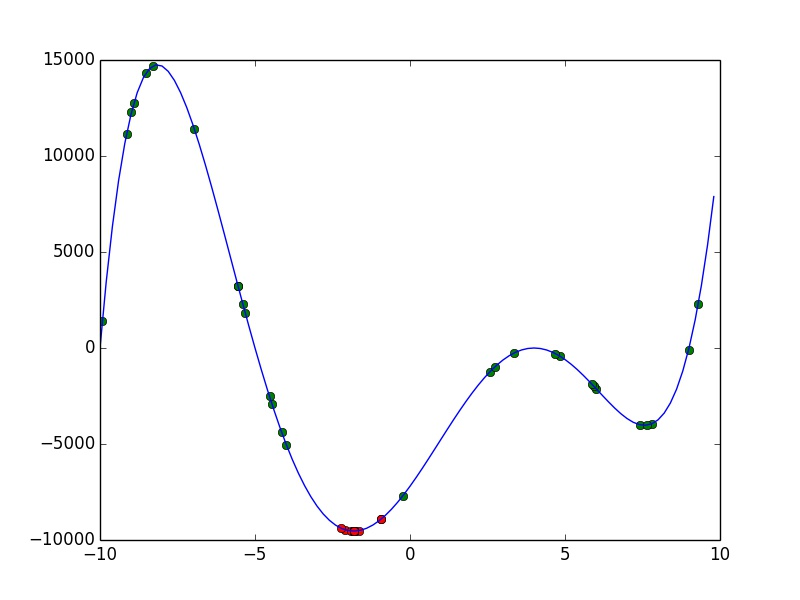
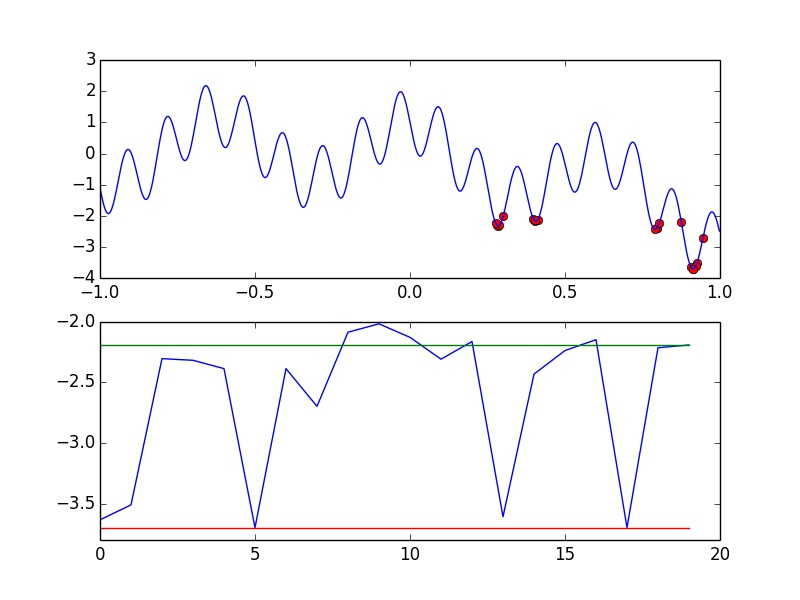
metoda selekcji turniejowa gotowa

diff --git a/templates/index.html b/templates/index.html
@@ -51,14 +51,16 @@
                         <button type="submit" class="btn btn-default">Generuj</button>
 
                         <label for="pop_count">Liczebność populacji</label>
-                        <input id="pop_count" name="pop_count" type="text" class="form-control" value="{{ pop_count }}">
+                        <input id="pop_count" name="pop_count" type="text"
+                               class="form-control" value="{{ pop_count|default:'10' }}">
 
                         <label for="pop_size">Liczba bitów na osobnika</label>
                         <input id="pop_size" name="pop_size" type="text" class="form-control" value="8">
 
 
                         <label for="gen_count">Liczba pokoleń</label>
-                        <input id="gen_count" name="gen_count" type="text" class="form-control" value="{{ gen_count }}">
+                        <input id="gen_count" name="gen_count" type="text"
+                               class="form-control" value="{{ gen_count|default:'3' }}">
 
                         <hr/>
 
@@ -72,7 +74,8 @@
 
                         <div class="sel_method_param">
                             <label for="sel_method_param" >Rozmiar turnieju</label>
-                            <input id="sel_method_param" name="sel_method_param" type="text" class="form-control" value="3">
+                            <input id="sel_method_param" name="sel_method_param" type="text"
+                                   class="form-control" value="{{ sel_method_param|default:'3' }}">
                         </div>
 
                         <label for="cross_method">Krzyżowanie</label>
@@ -85,13 +88,14 @@
                         <hr/>
 
                         <label for="function">Funkcja</label>
-                        <input id="function" name="function" type="text" class="form-control" value="{{ function }}">
+                        <input id="function" name="function" type="text"
+                               class="form-control" value="{{ function|default:'-x*x - x + cos(10*x) - sin(50*x)' }}">
 
                         <label for="min">Minimum</label>
-                        <input id="min" name="min" type="text" class="form-control" value="{{ min }}">
+                        <input id="min" name="min" type="text" class="form-control" value="{{ min|default:'-1' }}">
 
                         <label for="max">Maksimum</label>
-                        <input id="max" name="max" type="text" class="form-control" value="{{ max }}">
+                        <input id="max" name="max" type="text" class="form-control" value="{{ max|default:'1' }}">
 
                         <button type="submit" class="btn btn-default">Generuj</button>
                     </form>

diff --git a/genetic/func.py b/genetic/func.py
@@ -2,10 +2,10 @@ from __future__ import division
 import matplotlib.pyplot as plt
 from numpy import *
 from random import randrange, shuffle
+import itertools as it
 
 
-RESOLUTION = 100.0
-
+RESOLUTION = 1000.0
 
 class Genetic:
     def __init__(self):
@@ -24,44 +24,62 @@ class Genetic:
 
         x = arange(self.minx, self.maxx, (self.maxx-self.minx)/RESOLUTION)
 
-        m, ddd = self.find_min()
+        m = self.find_min()
         extract_min = lambda d: ([p0['x'] for p0 in d], [p1['y'] for p1 in d])
 
         mx, my = extract_min(m)
-        dx, dy = extract_min(ddd)
-        plt.plot(dx, dy, 'go')
+
+        plt.subplot(211)
         plt.plot(mx, my, 'ro')
-
-
         plt.plot(x, self.f(x))
-        plt.savefig('static/img/plot.jpg')
+
+        plt.subplot(212)
+        plt.plot(range(self.gen_count), my)
+        plt.plot([0, self.gen_count-1], 2*[min(self.f(x))], 'r')
+        plt.plot([0, self.gen_count-1], 2*[my[-1]], 'g')
+
+        while True:
+            try:
+                plt.savefig('static/img/plot.jpg')
+                break
+            except:
+                pass
 
     def gen_pop(self):
         k = randrange(self.range)/self.range
         return self.minx + k * (self.maxx - self.minx)
 
-    def group(self, lst, n):
-        return zip(*[lst[i::n] for i in range(n)])
+    def group(self, x, n):
+        for i in range(0, len(x), n):
+            yield x[i:i+n]
+
+    def create_population(self, n):
+        return [{'x': self.gen_pop()} for i in range(n)]
+
+    def crossed_champs(self, champs):
+        nc = len(champs)
+        for i in range(nc-1):
+            for j in range(i+1, nc):
+                yield {'x': (champs[i]['x']+champs[j]['x'])/2.0}
+
+    def crossed_champs_list(self, champs, n):
+        return list(it.islice(self.crossed_champs(champs), n))
 
     def find_min(self):
         key = lambda x: x['y']
-        population = [{'x': self.gen_pop()} for i in range(self.pop_count)]
-        ddd = population
+        population = self.create_population(self.pop_count)
         res = []
 
         for i in range(self.gen_count):
             for p in population:
                 p['y'] = self.f(p['x'])
-            shuffle(population)
-            g = self.group(population, self.tour_size)
+
+            g = list(self.group(population, self.tour_size))
+
             champs = [min(p, key=key) for p in g]
             res.append(min(champs, key=key))
-            print res
-            population = []
-            nc = len(champs)
-            for i in range(nc):
-                for j in range(self.tour_size):
-                    population.append({'x': (champs[i]['x']+champs[(i+j+1)%nc]['x'])/2})
 
-        return res, ddd
+            population = self.crossed_champs_list(champs, self.pop_count-len(champs))
+            population += self.create_population(self.pop_count - len(population))
+        return res
 
